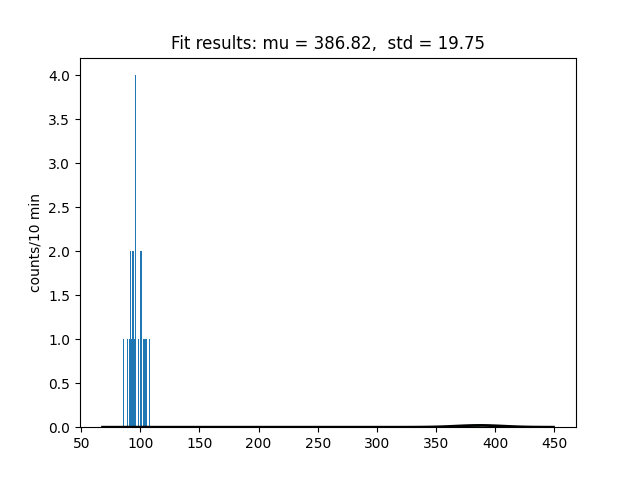
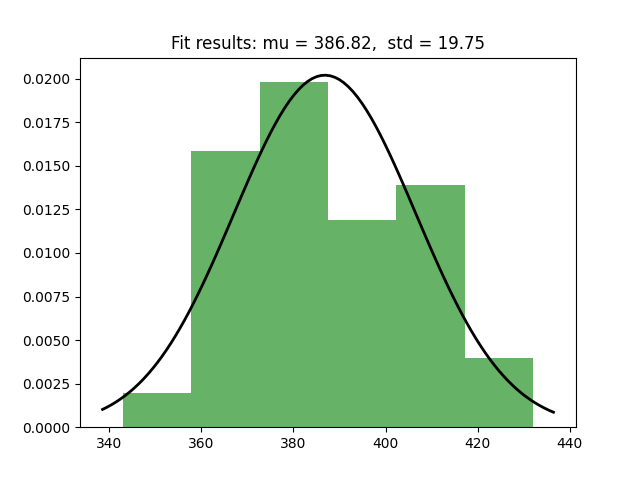
gaussian added

diff --git a/PoissonExp/dataplotter.py b/PoissonExp/dataplotter.py
@@ -36,6 +36,8 @@ def histogram_creator(x_axis, y_axis, title, y_label, name):
     ax.bar(x_axis,y_axis) # the .bar() creates the bar graph
 
     fig.savefig(name) # finally this command, shows the plot
+    plt.clf()
+
 
 def histogram_w_error_bar(x_axis, y_axis, error, title, y_label,name, flag):
     #https://stackoverflow.com/questions/11774822/matplotlib-histogram-with-errorbars
@@ -54,6 +56,7 @@ def histogram_w_error_bar(x_axis, y_axis, error, title, y_label,name, flag):
     plt.tight_layout()
     #plt.show()
     plt.savefig(name) # Use plt.show() here
+    plt.clf()
 
 def histogram_w_poisson_dist(x_axis, y_axis, title, y_label, name, N,average):
     poisson_pts = []
@@ -77,6 +80,8 @@ def histogram_w_poisson_dist(x_axis, y_axis, title, y_label, name, N,average):
     ax.plot(x_axis, poisson_pts,linestyle='solid',color='green')
 
     fig.savefig(name) # finally this command, shows the plot
+    plt.clf()
+
 
 def binned_histogram(N,average, standard_dev, data,name):
     #sturges_rule
@@ -87,7 +92,7 @@ def binned_histogram(N,average, standard_dev, data,name):
     mu, std = norm.fit(data)
 
     # Plot the histogram.
-    plt.hist(data, bins=int(bins_k), density=True, alpha=0.6, color='g')
+    plt.hist(data, bins=6, density=True, alpha=0.6, color='g')
 
     # Plot the PDF.
     xmin, xmax = plt.xlim()
@@ -99,6 +104,7 @@ def binned_histogram(N,average, standard_dev, data,name):
 
     plt.savefig(name)
 
+    plt.clf()
 
 
 def main():
@@ -134,6 +140,7 @@ def main():
     histogram_w_poisson_dist(quotients, y_axis, 'Counts with voltage set at 900V', 'counts/0.1 min',"6_second_count_histo_w_poisson_div4.png",len(x_axis),mean(new_list2))
 
     binned_histogram(N,average, standard_dev, new_list,"6_second_count_histo_w_gaussian_bin.png")
+    binned_histogram(N,average, standard_dev, new_list2,"6_second_count_histo_w_gaussian_bin_div4.png")
 
     # Starting graph for counts per 1 min #####################################################################
     print("1 minute stuff-----------------------------------------------")
@@ -168,6 +175,7 @@ def main():
     histogram_w_poisson_dist(quotients, y_axis, 'Counts with voltage set at 900V', 'counts/1 min',"1_min_count_histo_w_poisson_div4.png",len(x_axis),mean(new_list2))
 
     binned_histogram(N,average, standard_dev, new_list,"1_min_count_histo_w_gaussian_bin.png")
+    binned_histogram(N,average, standard_dev, new_list2,"1_min_count_histo_w_gaussian_bin_div4.png")
 
     # Starting graph for counts per 10 min #####################################################################
     print("10 minute stuff----------------------------------------------")
@@ -201,6 +209,7 @@ def main():
     histogram_w_poisson_dist(x_axis, y_axis, 'Counts with voltage set at 900V', 'counts/10 min',"10_min_count_histo_w_poisson.png",len(x_axis),average)
     histogram_w_poisson_dist(quotients, y_axis, 'Counts with voltage set at 900V', 'counts/10 min',"10_min_count_histo_w_poisson_div4.png",len(x_axis),mean(new_list2))
     binned_histogram(N,average, standard_dev, new_list,"10_min_count_histo_w_gaussian_bin.png")
+    binned_histogram(N,average, standard_dev, new_list2,"10_min_count_histo_w_gaussian_bin_div4.png")
 
 
 
